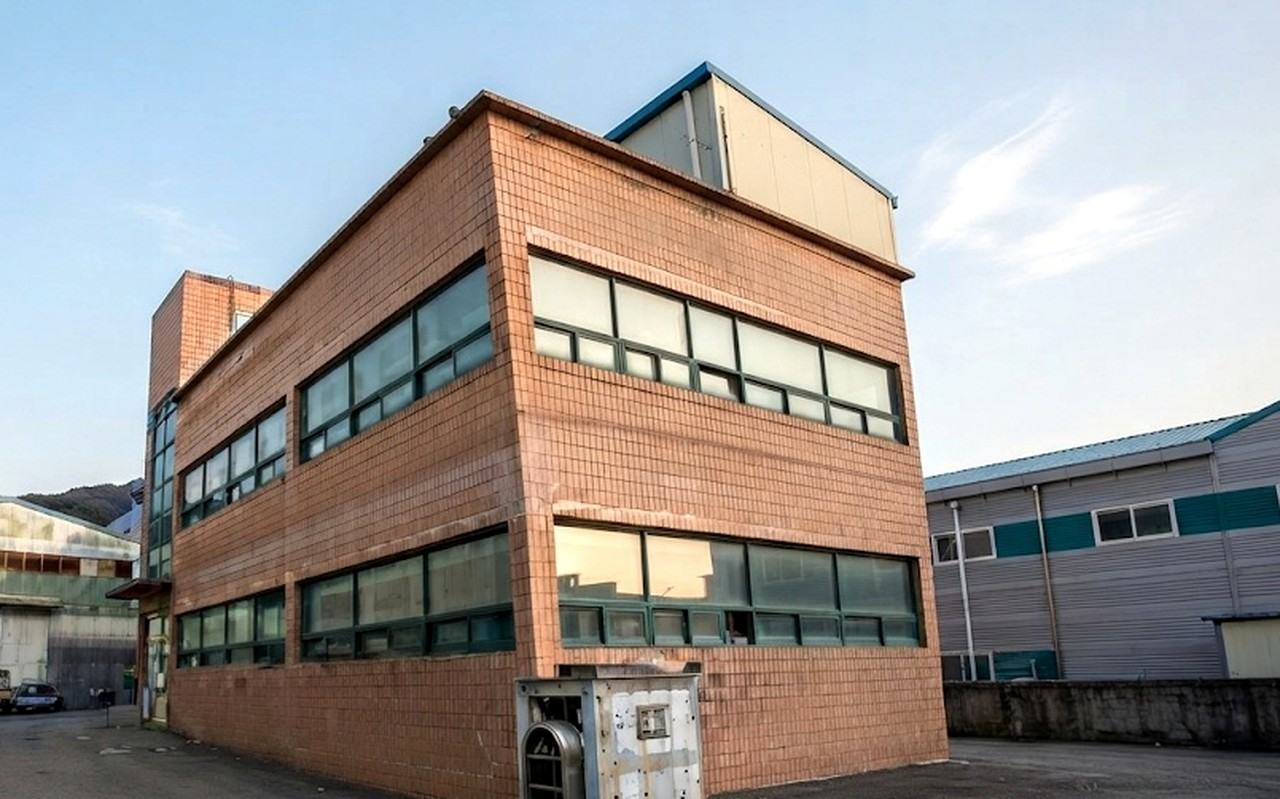
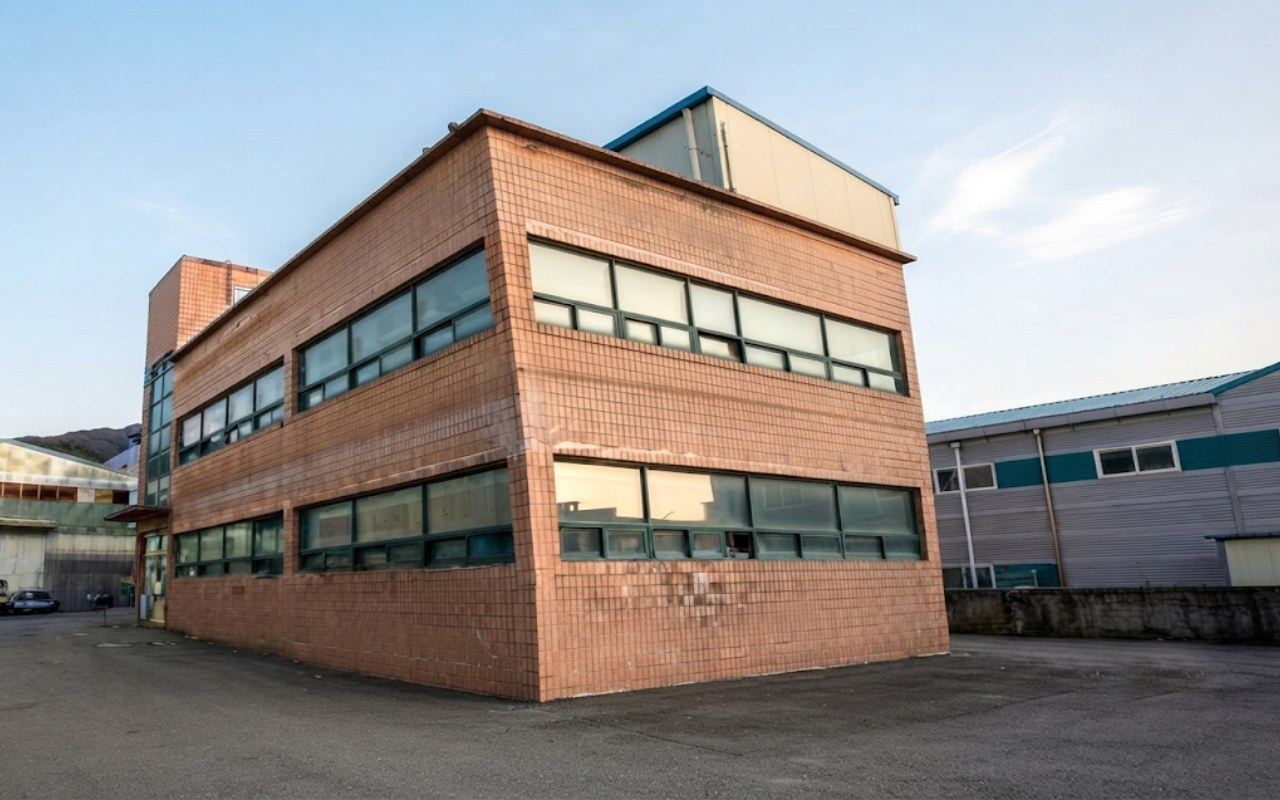
samhung: exterior without outdoor unit, remove watermarks
Claude-Session: https://claude.ai/code/session_01D8ERGz5r4FPkuXoKDYhqRw

diff --git a/_stage/samhung/_c.js b/_stage/samhung/_c.js
@@ -1,0 +1,87 @@
+
+const P=[
+ {id:'crank',n:'크랭크케이스',e:'CRANK CASE',c:'comp',m:'금형주조',img:'img/p_crank.jpg',u:['압축기 · 엔진용','기밀 시험 후 출하','다수 포트 · 실린더 보어 일체형']},
+ {id:'cyl',n:'실린더블록',e:'CYL-BLOCK',c:'comp',m:'금형주조',img:'img/p_cyl.jpg',u:['2기통 압축기용','정밀 보어 · 볼트 패턴','반복 양산']},
+ {id:'flow',n:'유량계 바디',e:'FLOW METER BODY',c:'pump',m:'금형주조',img:'img/p_flow.jpg',u:['계측기용 하우징','4방향 플랜지','누설 없는 내부 유로']},
+ {id:'pump',n:'펌프 바디',e:'BODY PUMP',c:'pump',m:'금형주조',img:'img/p_pump.jpg',u:['펌프 하우징','수압 시험','후가공 면 확보']},
+ {id:'r4',n:'R4 케이스',e:'R4 CASE',c:'comp',m:'금형주조',img:'img/p_r4.jpg',u:['원형 하우징','얇은 리브 구조','양산 부품']},
+ {id:'cover',n:'커버 (사형)',e:'COVER',c:'sand',m:'사형주조',img:'img/p_cover.jpg',u:['대형 · 복잡 형상','사형주조로 금형비 절감','소량 · 개발품 대응']}];
+const S=[
+ {n:'용해',ic:'<path d="M12 3c1 3 4 4.5 4 8.5a4 4 0 0 1-8 0c0-2 1-3 2-4 0 1.5.8 2.5 2 2.5 0-2.5-1-4 0-7z"/><path d="M5 21h14"/>',x:'경동식 GAS로에서 알루미늄 잉곳을 알맞은 온도로 녹입니다.',d:'알루미늄 잉곳을 녹임',eq:'경동식 GAS로 350kg',img:'img/g_step1.jpg',t:'용해로'},
+ {n:'가스 처리',ic:'<circle cx="8" cy="15" r="2.5"/><circle cx="15" cy="10" r="2"/><circle cx="11" cy="5" r="1.4"/><path d="M4 21h16"/>',x:'쇳물 속 수소를 빼내 기공을 막습니다. 새지 않는 부품의 첫 단계예요.',d:'쇳물 속 수소 제거 → 기공 방지',eq:'GAS 처리장치 2대',img:'img/g_step2.jpg',t:'잉곳 · 용탕 관리'},
+ {n:'보온',ic:'<path d="M10 4a2 2 0 0 1 4 0v9.5a4 4 0 1 1-4 0z"/><path d="M12 9v6"/>',x:'전기 보온로 8기로 쇳물 온도를 일정하게 지켜 품질 편차를 줄입니다.',d:'주조 온도를 일정하게',eq:'전기 보온로 8기',img:'img/g_step3.jpg',t:'보온로 AL 500kg'},
+ {n:'주조',ic:'<path d="M3 7h9l-2 5H5z"/><path d="M12 7l4-3"/><path d="M8 12c0 2 .5 3 1 4"/><rect x="5" y="16" width="14" height="5" rx="1"/>',x:'주조기 8대에서 금형 또는 모래 틀에 중력으로 쇳물을 붓습니다.',d:'금형·사형에 중력으로 주입',eq:'주조기 8대',img:'img/g_step4.jpg',t:'주조 작업'},
+ {n:'탈사 · 절단',ic:'<circle cx="7" cy="17" r="3"/><circle cx="17" cy="17" r="3"/><path d="M9 15 19 4M15 15 5 4"/>',x:'굳은 주물에서 모래를 털고, 탕구와 불필요한 부분을 잘라냅니다.',d:'모래 제거, 탕구 절단',eq:'탈사기 3 · 절단기 5',img:'img/g_step5.jpg',t:'절단 작업'},
+ {n:'사상 · 쇼트',ic:'<path d="M12 3v4M12 17v4M3 12h4M17 12h4M6 6l2.5 2.5M15.5 15.5 18 18M6 18l2.5-2.5M15.5 8.5 18 6"/><circle cx="12" cy="12" r="2"/>',x:'거친 면을 다듬고 쇼트로 표면을 고르게 정리합니다.',d:'표면 다듬기',eq:'SHOT기 2 · G.B.F 2',img:'img/g_step6.jpg',t:'SHOT기'},
+ {n:'기밀 시험',ic:'<circle cx="12" cy="13" r="8"/><path d="M12 13l4-4"/><path d="M9 3h6"/><path d="M8 17h8"/>',x:'감압 · 수압 TEST기로 누설이 없는지 하나하나 확인합니다.',d:'감압 · 수압으로 누설 검사',eq:'감압 · 수압 TEST기',img:'img/g_step7.jpg',t:'수압 TEST기',q:1},
+ {n:'출하',ic:'<path d="M2 7h11v9H2zM13 10h5l3 3v3h-8z"/><circle cx="6" cy="18" r="2"/><circle cx="17" cy="18" r="2"/>',x:'검사를 마친 부품만 포장해 약속한 날짜에 납품합니다.',d:'검사 완료품 포장 · 납품',eq:'공장 내 적재 · 출하',img:'img/g_step8.jpg',t:'공장 내부 전경'}];
+const EQ=[['보온로','전기로','500kg / 300kg / 250kg / 150kg','4 / 1 / 1 / 2'],['용해로','경동식 GAS로','350kg','1'],['GAS 처리장치','','','2'],['감압 TEST기','','','1'],['주조기','','','8'],['띠톱 절단기','','2HP','3'],['CUTTING M/C','','3HP / 1.5HP','1 / 1'],['탈사기','','','3'],['교반기','','','2'],['탁상선반','','DK-32','1'],['G.B.F기','','1200×900×300','2'],['MAGNETIC 드릴','','3HP','1'],['SHOT기','행거식','1200×1600×900','2'],['COMPRESSOR','','10HP','3'],['DRILL','','1.5HP','3'],['수압 TEST기','','1700×850×350','1'],['Ar 용접기','','','1']];
+const $=s=>document.querySelector(s),E=s=>String(s).replace(/[&<>"]/g,c=>({"&":"&amp;","<":"&lt;",">":"&gt;",'"':"&quot;"}[c]));
+$('#pg').innerHTML=P.map(p=>`<button class="pc" data-c="${p.c}" data-open="p:${p.id}"><div class="im" style="background-image:url(${p.img})"></div><div class="tx"><span><b>${p.n}</b><small>${p.e}</small></span><span class="tg">${p.m}</span></div></button>`).join('');
+$('#fl').innerHTML=S.map((s,i)=>`<button class="st${s.q?' q':''}" data-open="s:${i}"><span class="si" style="background-image:url(${s.img})"></span><b>${s.n}</b><small>${s.d}</small><span class="eq">${s.eq}</span></button>`).join('');
+document.addEventListener('click',e=>{const f=e.target.closest('[data-pf]');if(!f)return;document.querySelectorAll('[data-pf]').forEach(x=>x.classList.toggle('on',x===f));document.querySelectorAll('.pc').forEach(c=>c.hidden=f.dataset.pf!=='all'&&c.dataset.c!==f.dataset.pf)});
+
+const M=$('#md'),C=$('#mc');let qd={};
+const V={
+ prod:()=>`<h3>제품</h3><p class="sub">누르면 크게 볼 수 있어요</p><div class="pg" style="grid-template-columns:repeat(3,1fr)">${P.map(p=>`<button class="pc" data-open="p:${p.id}"><div class="im" style="background-image:url(${p.img})"></div><div class="tx"><span><b>${p.n}</b><small>${p.e}</small></span></div></button>`).join('')}</div>`,
+ p:id=>{const p=P.find(x=>x.id===id);return `<h3>${p.n} <small style="font-size:15px;color:var(--mu)">${p.e}</small></h3><p class="sub"><span class="tg" style="background:#FFF1E6;color:#B24A00;border-radius:99px;padding:4px 10px;font-weight:800;font-size:13px">${p.m}</span></p><div class="pdv"><div class="im" style="background-image:url(${p.img})"></div><div><ul>${p.u.map(x=>`<li>${x}</li>`).join('')}</ul><p style="color:var(--mu);font-size:14px">비슷한 부품이 필요하시면 도면을 보내 주세요. 주조 가능 여부부터 답해 드려요.</p><button class="btn" data-open="q">📐 이 부품처럼 견적 받기</button></div></div>`},
+ s:i=>{const s=S[i];return `<h3>0${+i+1} · ${s.n}</h3><p class="sub">${s.d}</p><div class="stv"><div><img src="${s.img}" alt="${s.n}" style="width:100%;border-radius:14px;aspect-ratio:16/10;object-fit:cover"></div><div><p style="margin:0 0 14px">${s.x}</p><b>사용 설비</b><p>${s.eq}</p>${s.q?'<p style="background:#FFF8F2;border-radius:12px;padding:12px;color:#B24A00;font-weight:700">압축기 · 펌프 부품은 이 단계에서 누설 여부를 하나하나 확인한 뒤 출하합니다.</p>':''}<div style="display:flex;gap:8px;margin-top:14px">${+i>0?`<button class="btn d" data-open="s:${+i-1}">← 이전</button>`:''}${+i<S.length-1?`<button class="btn" data-open="s:${+i+1}">다음 단계 →</button>`:''}</div></div></div>`},
+ ai:()=>`<h3>⚡ 30초 주조 가능성 체크</h3><p class="sub">고르기만 하면 알맞은 공법과 확인할 점을 바로 알려 드려요. (참고용 · 정확한 판단은 도면 검토 후)</p><div class="aic">
+ <span class="ql">재질</span><div class="ch" data-a="mat"><button>AC4C (AlSi7Mg)</button><button>AC2B</button><button>AC4A</button><button>모름</button></div>
+ <span class="ql">개당 중량</span><div class="ch" data-a="w"><button data-v="1">1kg 이하</button><button data-v="2">1~5kg</button><button data-v="3">5~20kg</button><button data-v="4">20kg 이상</button></div>
+ <span class="ql">연간 수량</span><div class="ch" data-a="q"><button data-v="1">시제품 · 100개 이하</button><button data-v="2">100~1,000개</button><button data-v="3">1,000개 이상</button></div>
+ <span class="ql">요구 사항 (여러 개)</span><div class="ch" data-a="r" data-m="1"><button>새면 안 됨 (기밀)</button><button>강도 (열처리)</button><button>복잡한 내부 구멍</button><button>매끈한 표면</button></div>
+ <button class="btn" id="aigo" style="justify-content:center">결과 보기 →</button>
+ <div class="air" id="air"></div></div>`,
+ eqall:()=>`<h3>전체 설비 목록</h3><p class="sub">2026년 기존 홈페이지 기준</p><table class="eqt"><tr><th>설비</th><th>특성</th><th>용량</th><th>대수</th></tr>${EQ.map(r=>`<tr>${r.map(c=>`<td>${c||'-'}</td>`).join('')}</tr>`).join('')}</table>`,
+ ba:()=>`<h3>지금 홈페이지 vs 새 홈페이지</h3><p class="sub">거래처가 처음 검색해서 들어왔을 때 보는 화면이에요.</p><div class="ba"><figure><img src="img/before.jpg" alt="지금 홈페이지"><figcaption>지금 홈페이지</figcaption><ul class="bad"><li>주소창에 <b>"주의 요함"</b> 보안 경고</li><li>휴대폰에서 글씨가 작고 화면이 잘림</li><li>글자가 그림이라 <b>검색에 거의 안 잡힘</b></li><li>"25년 노하우" → 실제로는 38년</li><li><b>견적 게시판</b>: 지금까지 문의 54건 — 게시판에 직접 들어가 봐야 해서 <b>새 문의를 놓치기 쉬움</b></li></ul></figure><figure><img src="img/after.jpg" alt="새 홈페이지 시안"><figcaption>새 홈페이지 (이 시안)</figcaption><ul class="good"><li>휴대폰 · PC 모두 깔끔하게</li><li>제품을 카탈로그처럼 고급스럽게</li><li>공정 8단계 · 기밀 시험으로 신뢰</li><li>도면 첨부 견적 → <b>담당자 휴대폰 · 메일로 즉시 알림</b> (로그인 없이 1분)</li><li>견적 게시판도 그대로 · 비밀글로 안전하게</li></ul></figure></div>
+ <figure style="margin:18px 0 0"><img src="img/compare_m.jpg" alt="휴대폰 비교" style="border-radius:14px;border:1px solid var(--ln)"><figcaption style="font-weight:800;margin-top:8px">📱 거래처 대부분은 휴대폰으로 먼저 봐요</figcaption></figure>
+ <div class="offer"><b>이대로 쓰시려면</b><ul><li>회사 도메인 연결 + 보안(https) + 네이버 · 구글 검색 등록</li><li>제품 · 공장 사진 최신화 (찍어 주시면 다듬어 드려요)</li><li>영어 · 일본어 페이지 완성 (해외 거래처용 · 이 시안에 맛보기 포함)</li><li>AI 주조 가능성 체크 · 도면 견적 접수 → 담당자 휴대폰으로 바로 알림</li></ul><p style="margin:8px 0 0;font-size:13.5px;color:var(--mu)">찰칵홈 · 문의는 소개해 주신 분께 편하게 말씀해 주세요.</p></div>`,
+ q:()=>{qd={kind:'',mat:'',w:'',vol:'',post:[],file:'',co:'',nm:'',tel:'',msg:''};return `<h3>📐 견적 문의</h3><p class="sub">3단계 · 1분이면 끝나요</p><div class="qs"><span class="on">1 부품</span><span>2 수량 · 도면</span><span>3 연락처</span></div>
+ <div class="qp" data-q="1"><span class="ql">어떤 부품인가요?</span><div class="ch" data-k="kind"><button>압축기 · 엔진</button><button>펌프 · 밸브</button><button>하우징 · 커버</button><button>기타</button></div>
+ <span class="ql">재질</span><div class="ch" data-k="mat"><button>AC4C</button><button>AC2B</button><button>AC4A</button><button>기타 · 모름</button></div>
+ <span class="ql">개당 예상 중량</span><div class="ch" data-k="w"><button>1kg 이하</button><button>1 ~ 5kg</button><button>5 ~ 20kg</button><button>20kg 이상</button></div><p class="qe" id="qe1"></p><div class="qb"><button class="btn" data-qn="2">다음 →</button></div></div>
+ <div class="qp" data-q="2" hidden><span class="ql">연간 예상 수량</span><div class="ch" data-k="vol"><button>시제품 · 소량</button><button>~1,000개</button><button>1,000 ~ 10,000개</button><button>10,000개 이상</button></div>
+ <span class="ql">추가로 필요한 것 (여러 개 선택)</span><div class="ch" data-k="post" data-m="1"><button>열처리 (T6)</button><button>기계 가공</button><button>기밀 시험</button><button>도장 · 표면처리</button></div>
+ <label class="drop">📎 <b>도면 파일 선택</b> (PDF · DWG · STEP · 사진)<input type="file" id="qf" hidden><br><span id="qfn">파일은 접수 후 메일로 받아도 돼요</span></label>
+ <p class="qe" id="qe2"></p><div class="qb"><button class="btn bk" data-qn="1">← 이전</button><button class="btn" data-qn="3">다음 →</button></div></div>
+ <div class="qp" data-q="3" hidden><div class="qr"><label>회사명<input id="qco" placeholder="예: ○○공업"></label><label>담당자<input id="qnm" placeholder="예: 김과장"></label></div><label>연락처<input id="qtel" placeholder="010-0000-0000 또는 이메일"></label><label>요청 사항 (선택)<textarea id="qmsg" rows="2" placeholder="예: 기존 업체 단가 문제로 이관 검토 중이에요"></textarea></label>
+ <div class="qsum" id="qsum"></div><p class="qe" id="qe3"></p><div class="qb"><button class="btn bk" data-qn="2">← 이전</button><button class="btn" id="qgo">견적 요청 보내기 ✓</button></div></div>
+ <div class="qp" data-q="4" hidden><div class="qd"><div class="ok">✓</div><b style="font-size:21px">견적 요청이 접수됐어요</b><p style="color:var(--mu);margin:0" id="qno"></p><p style="margin:0">담당자가 <b>1영업일 안에</b> 연락드려요.<br>도면은 아래 메일 안내에 따라 보내 주시면 돼요.</p><button class="btn d" data-close>닫기</button></div></div>`}};
+const open=k=>{const [a,b]=k.split(':');if(!V[a])return;C.innerHTML=V[a](b);M.hidden=false;document.body.style.overflow='hidden';M.querySelector('.mb').scrollTop=0;if(a==='q')qwire()};
+const close=()=>{if(M.hidden)return;M.classList.add('out');setTimeout(()=>{M.hidden=true;M.classList.remove('out');document.body.style.overflow=''},180)};
+document.addEventListener('click',e=>{const o=e.target.closest('[data-open]');if(o){e.preventDefault();open(o.dataset.open);return}if(e.target.closest('[data-close]')||e.target===M)close()});
+document.addEventListener('keydown',e=>{if(e.key==='Escape'&&!M.hidden)close()});
+function qwire(){const go=n=>{C.querySelectorAll('.qp').forEach(p=>p.hidden=+p.dataset.q!==n);C.querySelectorAll('.qs span').forEach((s,i)=>s.className=i+1===n?'on':i+1<n?'dn':'');C.querySelector('.qs').style.display=n===4?'none':'flex'};let step=1;
+ C.querySelectorAll('.ch').forEach(g=>g.addEventListener('click',e=>{const b=e.target.closest('button');if(!b)return;const k=g.dataset.k;if(g.dataset.m){b.classList.toggle('on');qd[k]=[...g.querySelectorAll('.on')].map(x=>x.textContent)}else{g.querySelectorAll('button').forEach(x=>x.classList.toggle('on',x===b));qd[k]=b.textContent}}));
+ C.querySelector('#qf').onchange=e=>{const f=e.target.files[0];qd.file=f?f.name:'';C.querySelector('#qfn').textContent=f?`✓ ${f.name} (접수 후 메일로 받을게요)`:''};
+ C.addEventListener('click',e=>{const b=e.target.closest('[data-qn]');if(!b)return;const n=+b.dataset.qn;
+  if(n>step){if(step===1&&(!qd.kind||!qd.mat||!qd.w)){C.querySelector('#qe1').textContent='부품 · 재질 · 중량을 하나씩 골라 주세요';return}C.querySelector('#qe1').textContent='';
+   if(step===2&&!qd.vol){C.querySelector('#qe2').textContent='연간 수량을 골라 주세요';return}
+   if(n===3)C.querySelector('#qsum').innerHTML=[['부품',qd.kind],['재질',qd.mat],['중량',qd.w],['연간 수량',qd.vol],['추가',qd.post.join(', ')||'-'],['도면',qd.file||'메일로 전달']].map(([a,b])=>`<div><span>${a}</span><b>${E(b)}</b></div>`).join('')}
+  step=n;go(n)});
+ C.querySelector('#qgo').onclick=async()=>{const er=C.querySelector('#qe3');const co=C.querySelector('#qco').value.trim(),nm=C.querySelector('#qnm').value.trim(),tel=C.querySelector('#qtel').value.trim();if(!co||!tel){er.textContent='회사명과 연락처를 써 주세요';return}er.textContent='';const b=C.querySelector('#qgo');b.disabled=true;b.textContent='보내는 중…';
+  const msg=`부품: ${qd.kind} · 재질: ${qd.mat} · 중량: ${qd.w} · 연간: ${qd.vol} · 추가: ${qd.post.join(', ')||'-'} · 도면: ${qd.file||'메일'}\n회사: ${co} / 담당: ${nm}\n${C.querySelector('#qmsg').value}`;
+  try{const j=await (await fetch("https://script.google.com/macros/s/AKfycbz09Pualc3dVyOYhjRIBLY1lVpeZMpi8YMoUFlBcqWjJ30gKJagm0HAhio3rFaIf_E/exec",{method:"POST",body:JSON.stringify({op:"hpq",f:{kind:"🏭 견적 · 삼흥테크(시안)",name:co+' '+nm,contact:tel,msg}})})).json();if(j.error)throw 0;C.querySelector('#qno').textContent='접수번호 '+j.id;step=4;go(4)}
+  catch(_){er.textContent='보내지 못했어요. 055-299-3851로 전화 주세요.';b.disabled=false;b.textContent='견적 요청 보내기 ✓'}}}
+
+(()=>{const A={};document.addEventListener('click',e=>{const b=e.target.closest('.aic .ch button');if(b){const g=b.parentElement,k=g.dataset.a;if(g.dataset.m){b.classList.toggle('on');A[k]=[...g.querySelectorAll('.on')].map(x=>x.textContent)}else{g.querySelectorAll('button').forEach(x=>x.classList.toggle('on',x===b));A[k]=b.dataset.v||b.textContent}return}
+ if(e.target.id!=='aigo')return;const R=document.getElementById('air');if(!A.w||!A.q){R.className='air on';R.innerHTML='<p style="margin:0;color:#C7372F">중량과 연간 수량을 골라 주세요</p>';return}
+ const w=+A.w,q=+A.q,r=A.r||[];let m,why;
+ if(q===1||w===4){m='사형주조';why=q===1?'소량 · 시제품이라 금형비 부담이 적은 사형주조가 유리해요.':'큰 부품이라 사형주조가 안정적이에요.'}else{m='금형(중력)주조';why='반복 생산이라 금형주조로 치수가 일정하고 단가가 내려가요.'}
+ if(r.includes('매끈한 표면')&&m==='사형주조')why+=' 표면이 중요하면 양산 단계에서 금형주조 전환도 검토해요.';
+ const chk=['도면(PDF · DWG · STEP)의 최소 두께와 빼기 구배 확인'];if(r.includes('새면 안 됨 (기밀)'))chk.push('GAS 처리 + 감압 · 수압 기밀 시험 조건 협의 (삼흥테크 보유 설비)');if(r.includes('강도 (열처리)'))chk.push('T6 열처리 가능 재질(AC4C 등) · 요구 강도 확인');if(r.includes('복잡한 내부 구멍'))chk.push('중자(코어) 설계 · 탈사 방법 검토');if(!A.mat||A.mat==='모름')chk.push('재질 미정 → 용도에 맞는 재질(AC4C 등) 함께 추천');
+ R.className='air on';R.innerHTML=`<span class="badge" style="background:#FFE2CC;color:#B24A00">추천 공법</span><h4 style="display:inline">${m}</h4><p style="margin:10px 0 0">${why}</p><ul>${chk.map(x=>`<li>${x}</li>`).join('')}</ul><div style="display:flex;gap:8px;margin-top:14px;flex-wrap:wrap"><button class="btn" data-open="q">📐 이 조건으로 견적 받기</button><a class="btn d" href="tel:0552993851">📞 바로 상담</a></div>`});})()
+(()=>{const T={en:{ey:'<i></i>Since 1988 · Aluminum gravity casting only',h1:'38 years of<br><em>leak-free</em><br>aluminum parts.',hp:'We gravity-cast crank cases, cylinder blocks and pump bodies in permanent molds and sand, and test every part for leaks (vacuum &amp; hydrostatic) before shipping.',b1:'📐 Get a quote from your drawing',b2:'⚡ 30-sec castability check',cap:'Photo: a crank case produced by Sam Hung Tech',nq:'Request quote',ph:'If your part is like this, trust Sam Hung Tech',ah:'Where our parts go'},
+ ja:{ey:'<i></i>1988年創業 · アルミ重力鋳造専門',h1:'38年、<br><em>漏れない</em><br>アルミ部品。',hp:'クランクケース・シリンダーブロック・ポンプボディを金型・砂型の重力鋳造で製造し、減圧・水圧の気密試験まで自社で検査して納品します。',b1:'📐 図面でお見積り',b2:'⚡ 30秒 鋳造可否チェック',cap:'写真：三興テック製クランクケース',nq:'お見積り',ph:'こんな部品なら、三興テックへ',ah:'三興テックの部品が使われる場所'}};
+ const ko={};document.querySelectorAll('[data-t]').forEach(e=>ko[e.dataset.t]=e.innerHTML);
+ document.addEventListener('click',e=>{const b=e.target.closest('[data-lg]');if(!b)return;const L=b.dataset.lg;document.querySelectorAll('[data-lg]').forEach(x=>x.classList.toggle('on',x===b));document.documentElement.lang=L;document.querySelectorAll('[data-t]').forEach(el=>{const v=L==='ko'?ko[el.dataset.t]:T[L][el.dataset.t];if(v){el.innerHTML=v;el.animate&&el.animate([{opacity:0},{opacity:1}],{duration:300,easing:'ease'})}})});})()
+(()=>{const B=document.getElementById('bdb'),E=B.innerHTML;const Q='<tr><td>12</td><td class="tt"><button data-lock>🔒 AC4C 재질 T6 열처리 가능 여부</button></td><td>최**</td><td>2025-06-02</td></tr><tr><td>11</td><td class="tt"><button data-lock>🔒 사형주조 최소 두께 문의</button></td><td>한**</td><td>2024-11-14</td></tr>',N='<tr><td>3</td><td class="tt"><button data-lock="0">📢 하계 휴무 안내</button></td><td>관리자</td><td>2025-07-25</td></tr><tr><td>2</td><td class="tt"><button data-lock="0">📢 설 연휴 휴무 안내</button></td><td>관리자</td><td>2025-01-20</td></tr>';
+document.addEventListener('click',e=>{const t=e.target.closest('[data-bt]');if(t){document.querySelectorAll('[data-bt]').forEach(x=>x.classList.toggle('on',x===t));B.innerHTML=t.dataset.bt==='e'?E:t.dataset.bt==='q'?Q:N;return}
+ const l=e.target.closest('[data-lock]');if(l){const M=document.getElementById('md'),C=document.getElementById('mc');C.innerHTML=l.dataset.lock==='0'?'<h3>📢 공지사항</h3><p class="sub">시안용 예시 공지예요.</p>':'<h3>🔒 비밀글이에요</h3><p class="sub">작성자와 담당자만 볼 수 있어요. 새 견적이 필요하시면 아래 버튼을 눌러 주세요.</p><button class="btn" data-open="q">📐 견적 문의하기</button>';M.hidden=false;document.body.style.overflow='hidden'}})})()
+document.addEventListener('click',e=>{const c=e.target.closest('[data-cert]');if(!c)return;const f=['cert_iso','cert_yu','cert_trade','cert_clean'][+c.dataset.cert];const M=document.getElementById('md'),C=document.getElementById('mc');C.innerHTML=`<h3>${c.querySelector('b').textContent}</h3><p class="sub">${c.querySelector('small').textContent}</p><img src="img/${f}.jpg" alt="" style="max-height:70vh;margin:0 auto;border:1px solid var(--ln);border-radius:8px">`;M.hidden=false;document.body.style.overflow='hidden'})
+(()=>{if(!('IntersectionObserver' in window)||matchMedia('(prefers-reduced-motion: reduce)').matches)return;
+const SEL='.kpi .w>div,section .sh,.pain>div,.ceo>*,.why .ph2,.wl>div,#pg .pc,.flow .st,.cm2,.eqc,.ind span,.apps figure,.who>div,.tl>div,.cg2 .cc2,.bd2,.cta,.loc>*';
+const io=new IntersectionObserver(es=>es.forEach(e=>{if(e.isIntersecting){e.target.classList.add('in');io.unobserve(e.target)}}),{rootMargin:'0px 0px -8% 0px',threshold:.08});
+const go=()=>{const els=[...document.querySelectorAll(SEL)].filter(e=>!e.classList.contains('rv'));const grp=new Map();els.forEach(e=>{const p=e.parentElement;const i=grp.get(p)||0;grp.set(p,i+1);e.style.setProperty('--d',(Math.min(i,6)*0.07)+'s');e.classList.add('rv');const r=e.getBoundingClientRect();if(r.top<innerHeight*.92)requestAnimationFrame(()=>e.classList.add('in'));else io.observe(e)})};
+go();setTimeout(go,600);})()
